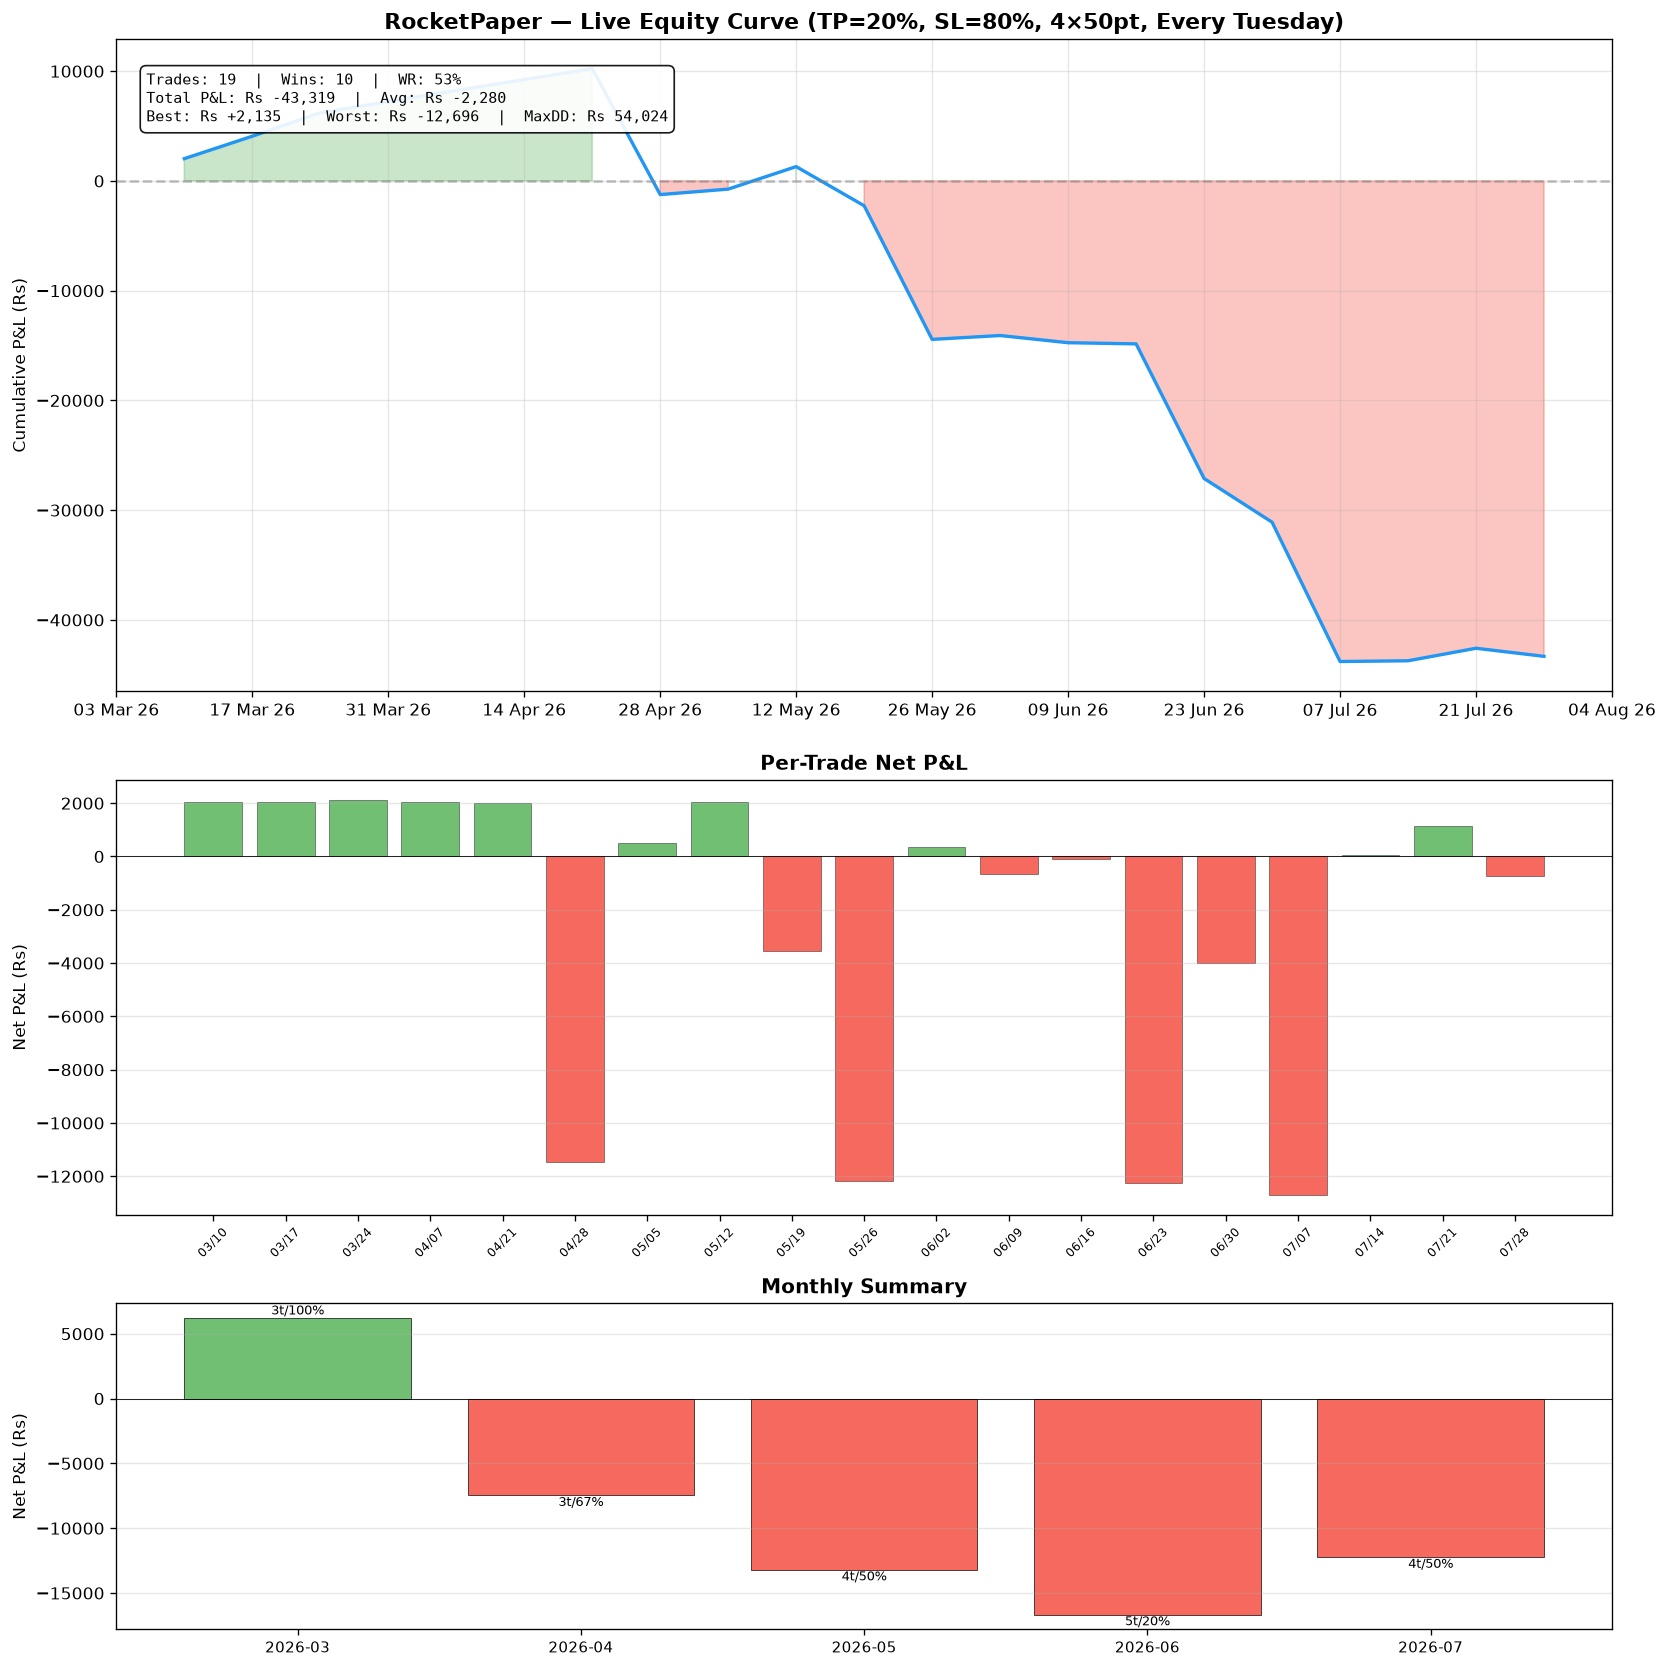
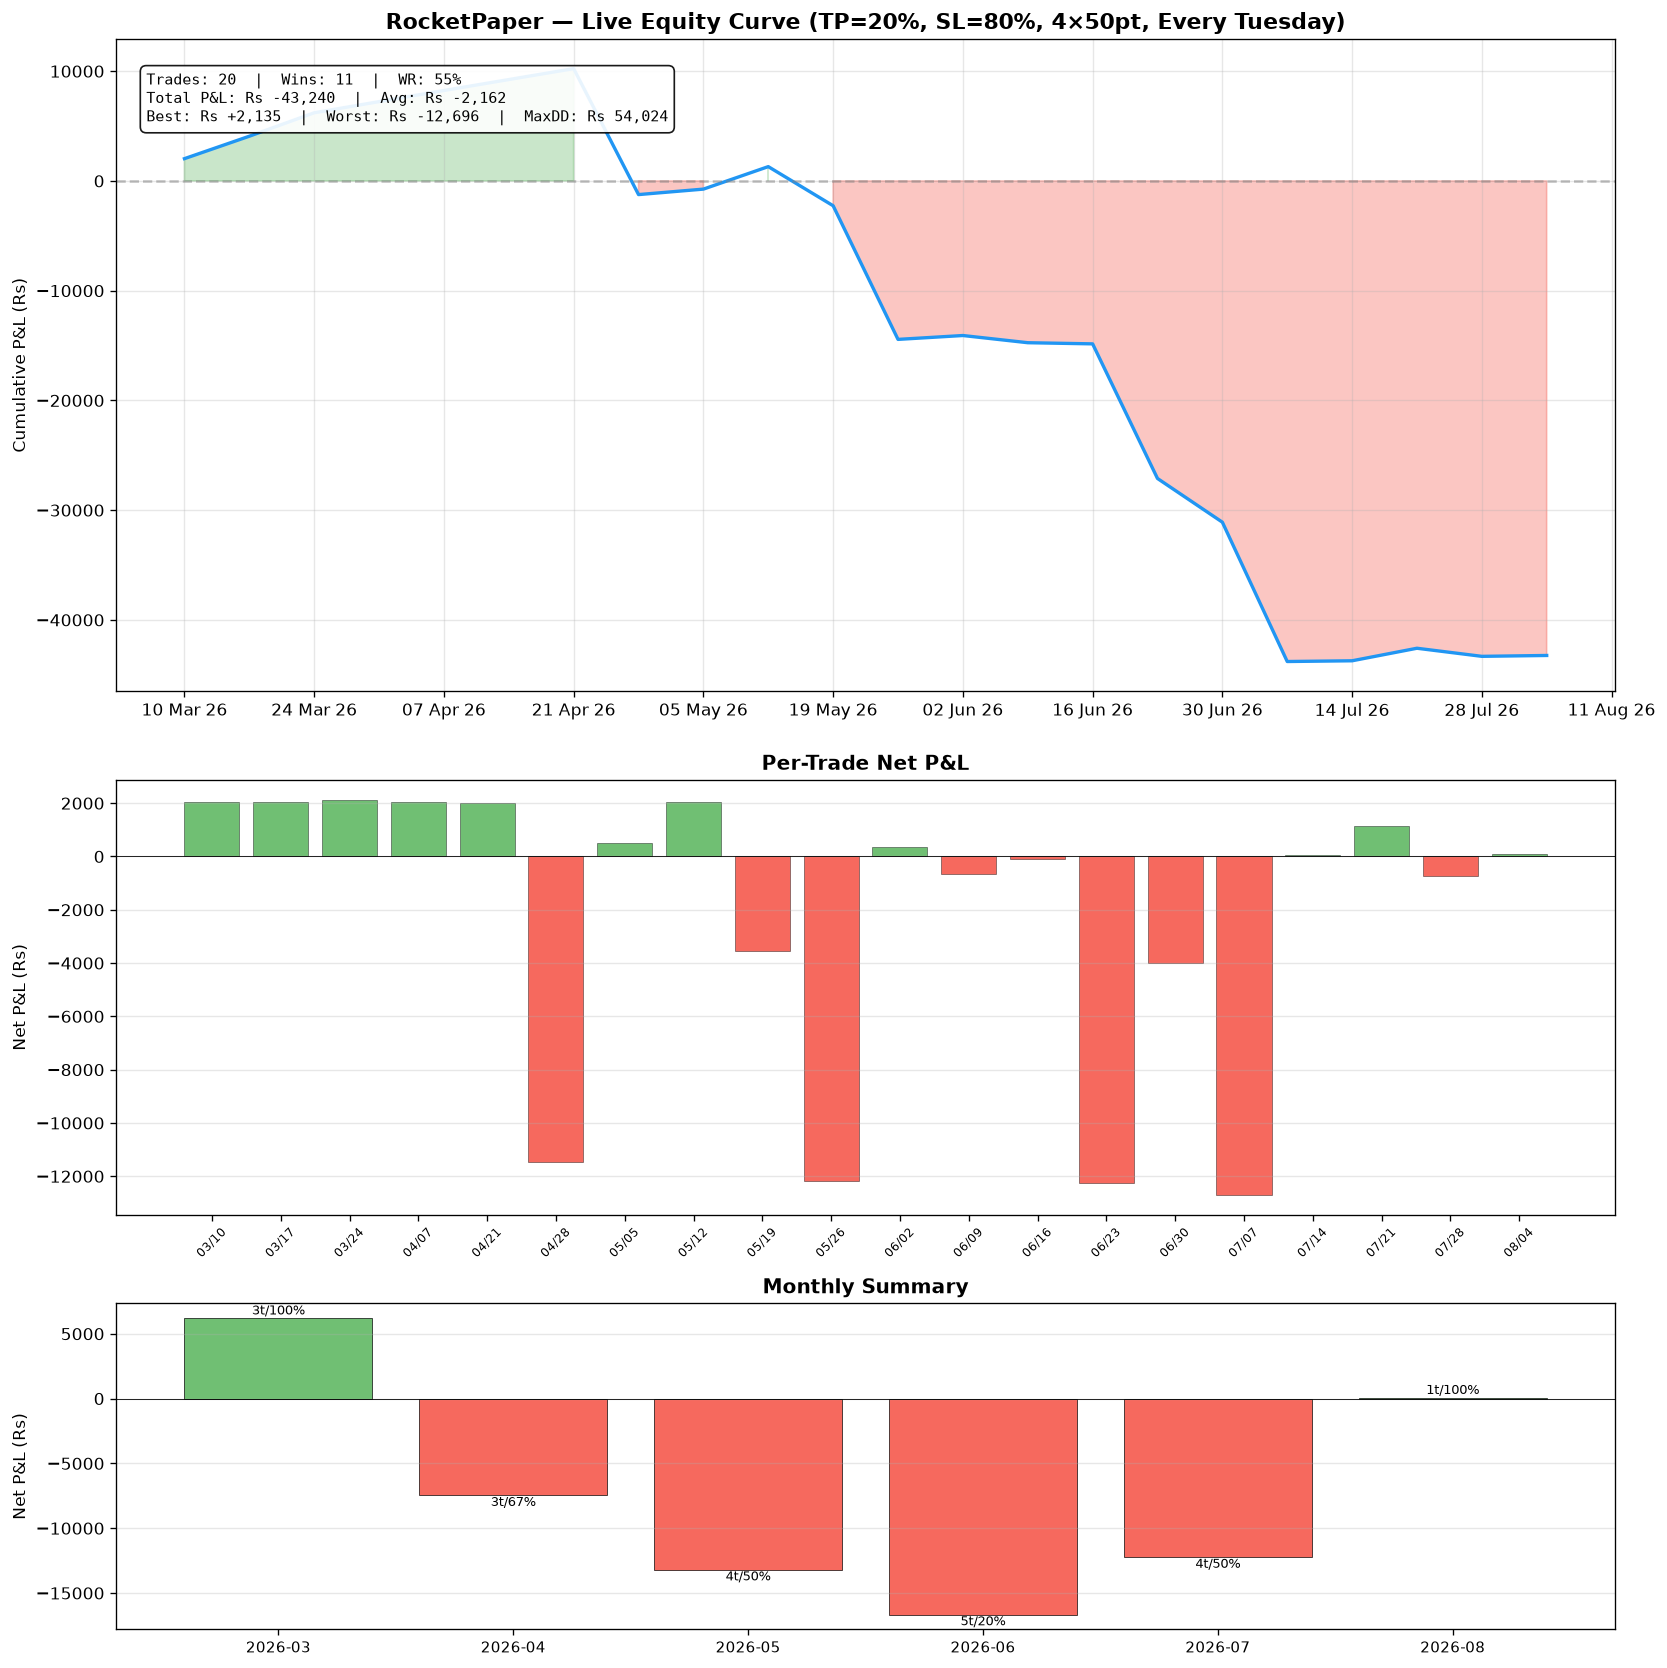
📊 RocketPaper — 04 Aug 2026 15:16 IST

diff --git a/README.md b/README.md
@@ -7,7 +7,7 @@ Automated Nifty 0-DTE credit spread paper trader. Runs every Tuesday on GitHub A
 <!-- STATS_START -->
 | Trades | Win Rate | Total P&L | Avg P&L | Max DD | Streak |
 |:------:|:--------:|:---------:|:-------:|:------:|:------:|
-| 19 | 53% (10W/9L) | Rs -43,319 | Rs -2,280 | Rs 54,024 | 1L |
+| 20 | 55% (11W/9L) | Rs -43,240 | Rs -2,162 | Rs 54,024 | 1W |
 <!-- STATS_END -->
 
 ---
@@ -23,14 +23,14 @@ Automated Nifty 0-DTE credit spread paper trader. Runs every Tuesday on GitHub A
 <!-- LAST_TRADE_START -->
 | Field | Value |
 |-------|-------|
-| Date | 2026-07-28 (Tuesday) |
+| Date | 2026-08-04 (Tuesday) |
 | Direction | Bullish |
-| Spread | PE 24000/23800 (4-wide) |
-| Credit | Rs 1,420 |
-| Risk | Rs 11,580 |
+| Spread | PE 24500/24300 (4-wide) |
+| Credit | Rs 3,474 |
+| Risk | Rs 9,526 |
 | Exit | Time Exit at 15:15 |
-| Nifty | 23995 -> 23972 |
-| Result | **L Rs -737 (-6.4%)** |
+| Nifty | 24478 -> 24463 |
+| Result | **W Rs +79 (+0.8%)** |
 <!-- LAST_TRADE_END -->
 
 ---
